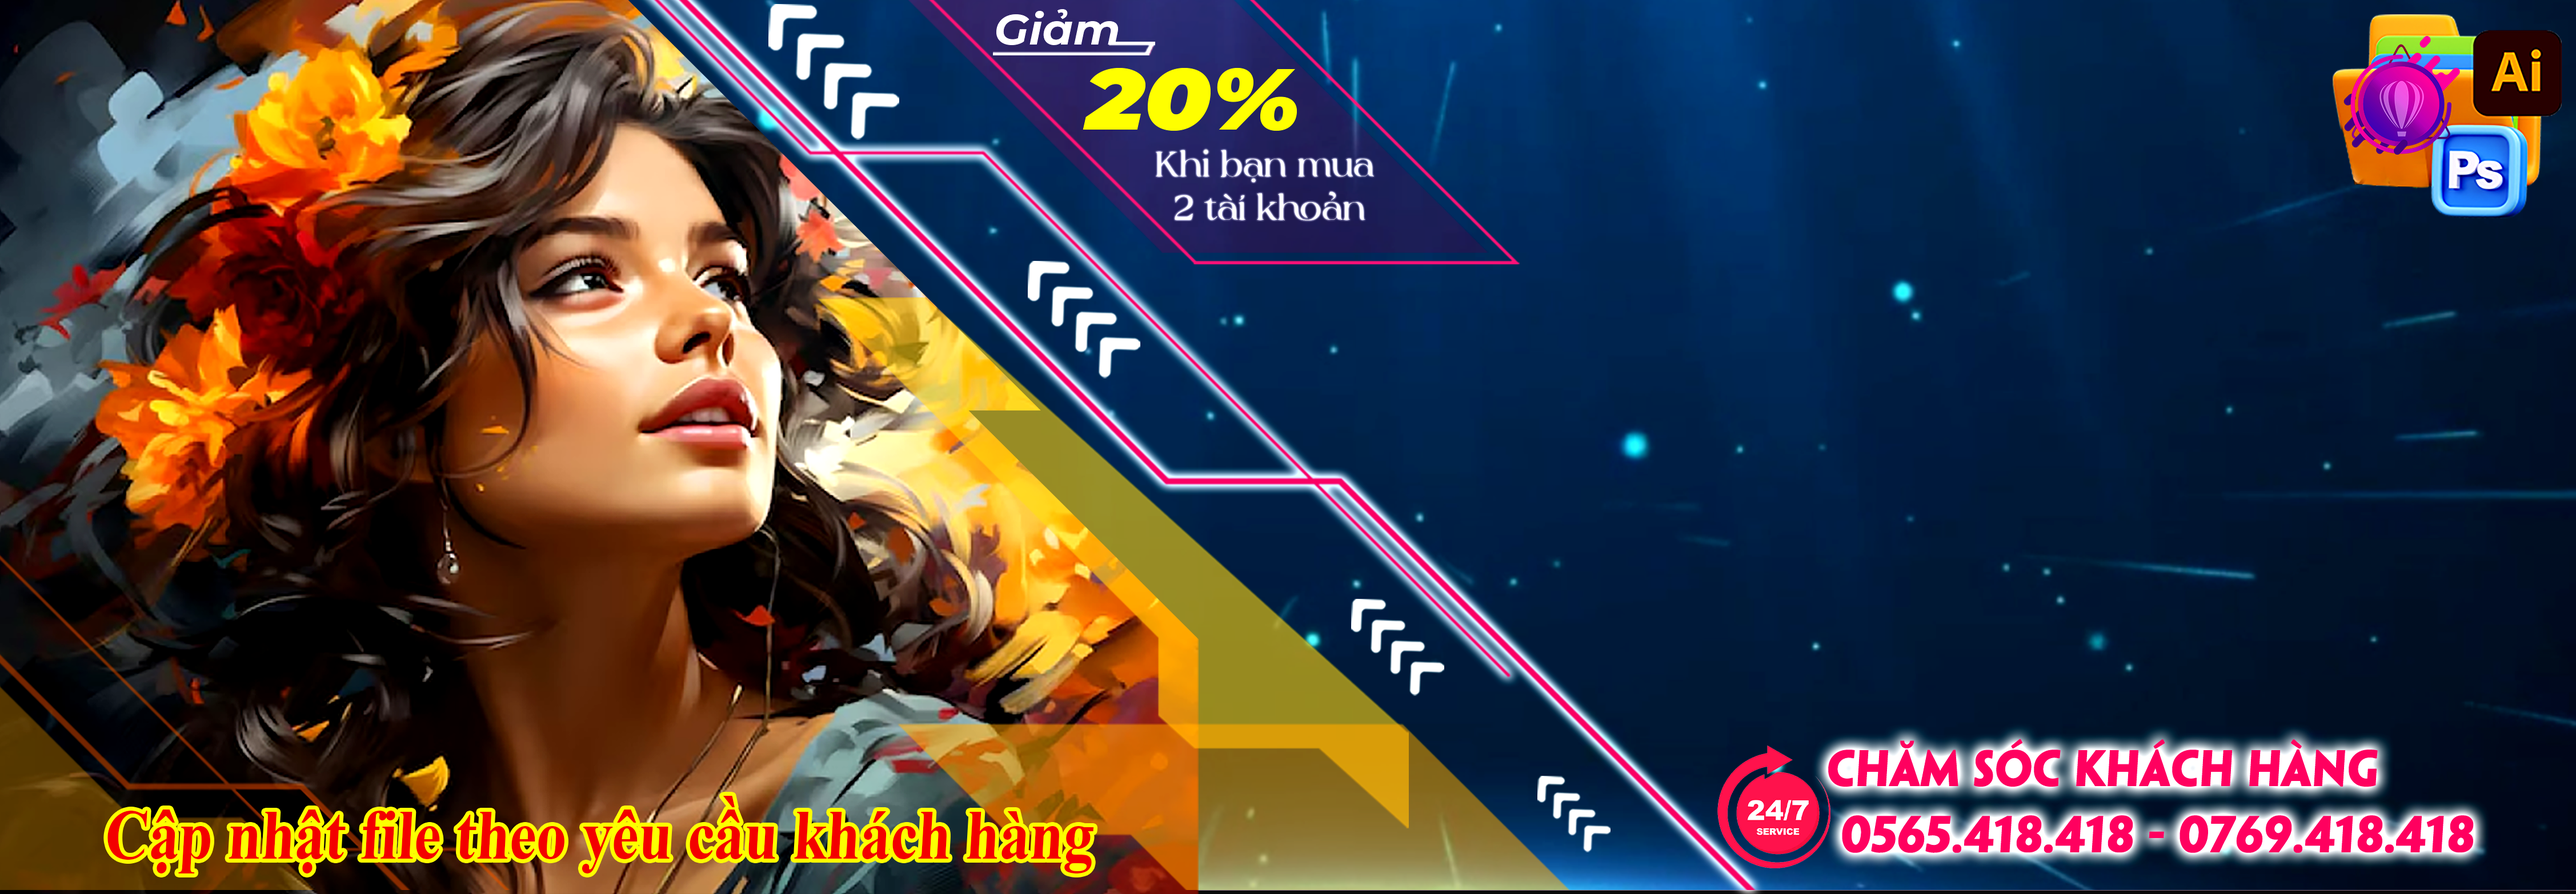
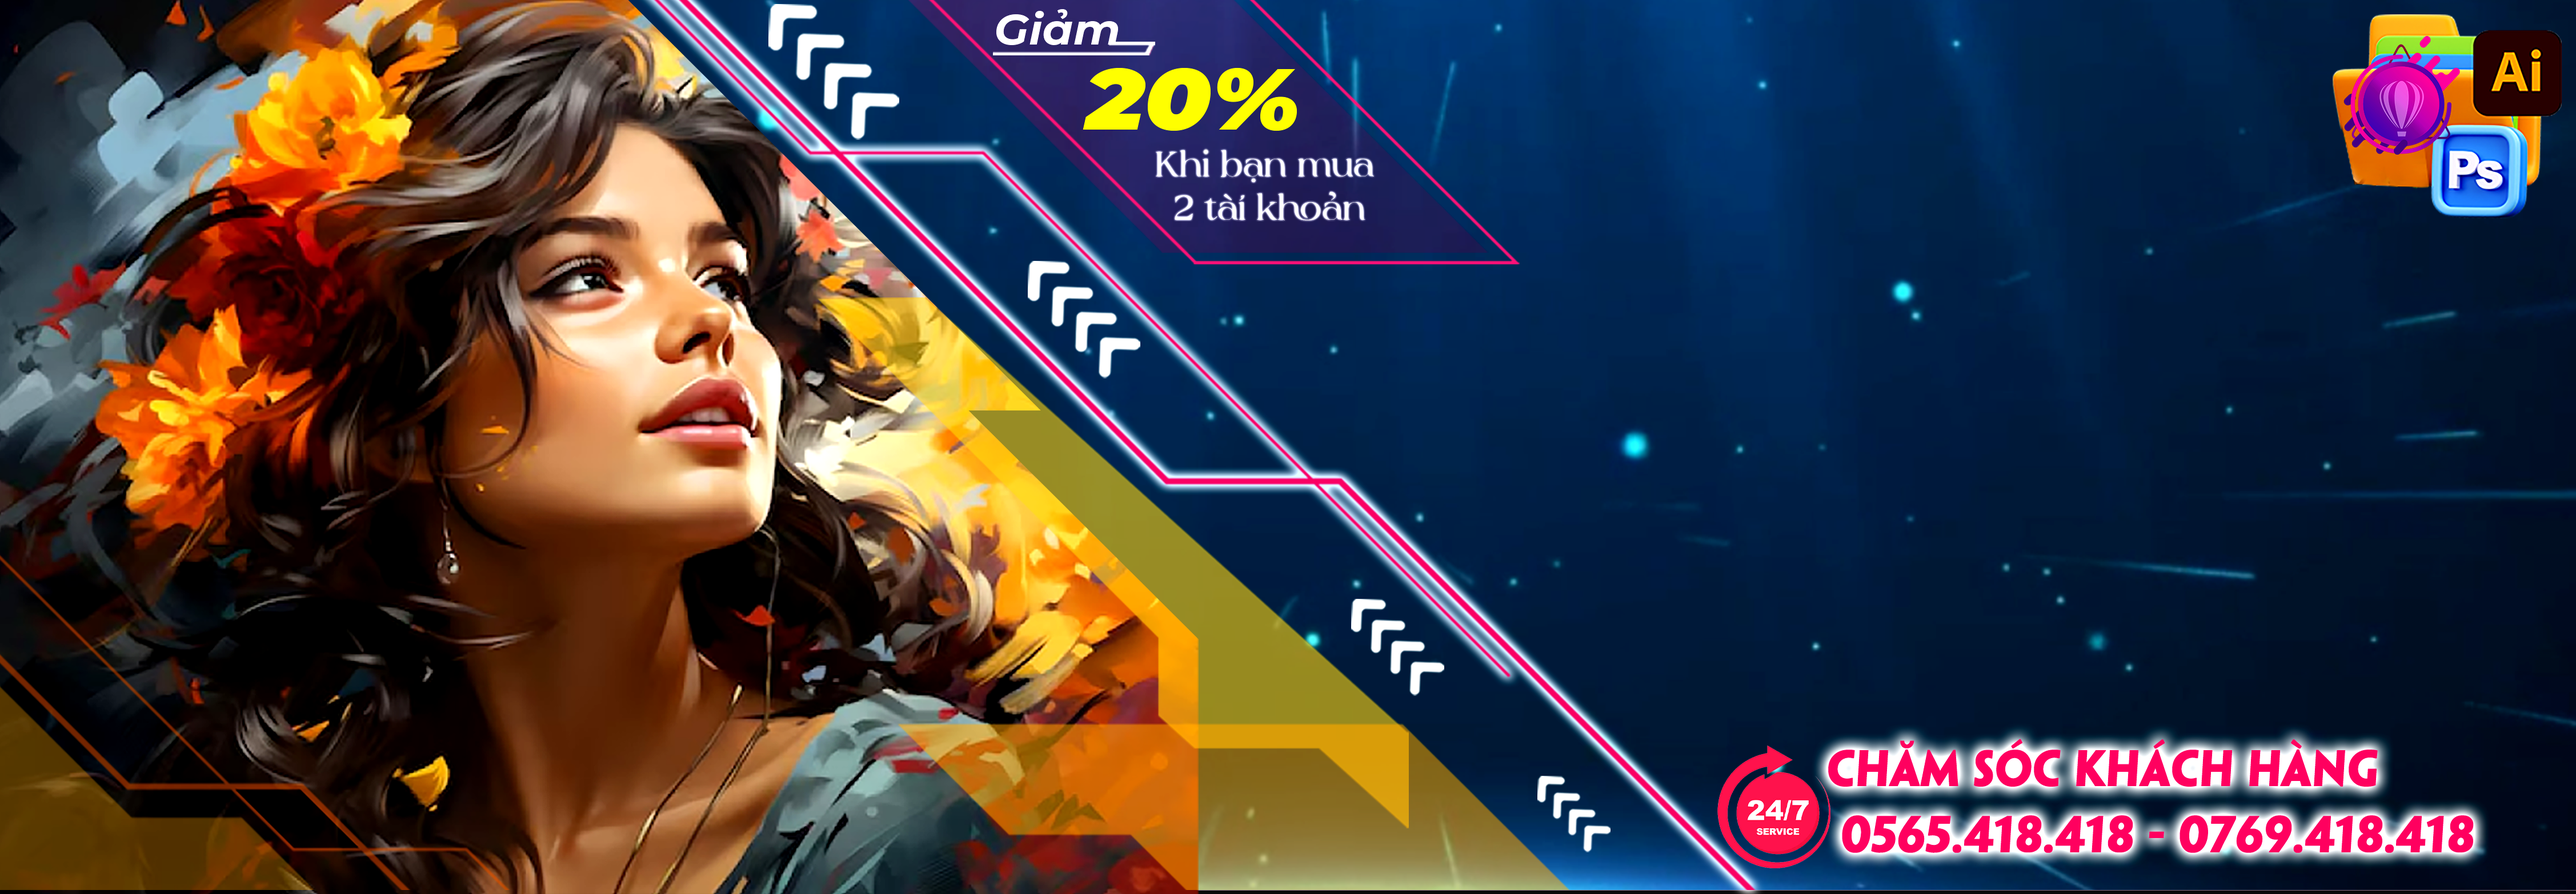
update page

Changed region(s): [[0.031, 0.8889, 0.4347, 0.9808]]

diff --git a/home-page.html b/home-page.html
@@ -59,7 +59,19 @@
 							<li><a href="#">Phông nền</a></li>
 							<li><a href="#">Noel</a></li>
 							<li><a href="#">Tết</a></li>
-							<li><a href="#">Các ngày lễ</a></li>
+							<li>
+								<a href="#">Các ngày lễ</a>
+								<img src="./images/ico-right.png" alt="">
+
+								<ul class="sub-menu-2">
+									<li><a href="#">Phông nền</a></li>
+									<li><a href="#">Tranh cổ động</a></li>
+									<li><a href="#">Lễ Tết</a></li>
+									<li><a href="#">Phông nền</a></li>
+									<li><a href="#">Tranh cổ động</a></li>
+									<li><a href="#">Lễ Tết</a></li>
+								</ul>
+							</li>
 							<li><a href="#">Cưới hỏi</a></li>
 							<li><a href="#">Tranh ảnh</a></li>
 							<li><a href="#">Tổng hợp</a></li>
@@ -70,8 +82,36 @@
 							<li><a href="#">Font vip</a></li>
 							<li><a href="#">Bida</a></li>
 							<li><a href="#">Băng rôn</a></li>
-							<li><a href="#">Thư viện Sketchup</a></li>
-							<li><a href="#">Trường học</a></li>
+							<li><a href="#">Thư viện Sketchup</a>
+								<img src="./images/ico-right.png" alt="">
+
+								<ul class="sub-menu-2">
+									<li><a href="#">Phông nền</a></li>
+									<li><a href="#">Tranh cổ động</a></li>
+									<li><a href="#">Lễ Tết</a></li>
+									<li><a href="#">Phông nền</a></li>
+									<li><a href="#">Tranh cổ động</a></li>
+									<li><a href="#">Lễ Tết</a></li>
+								</ul>
+							</li>
+							<li><a href="#">Trường học</a>
+								<img src="./images/ico-right.png" alt="">
+
+								<ul class="sub-menu-2">
+									<li><a href="#">Phông nền</a></li>
+									<li><a href="#">Tranh cổ động</a></li>
+									<li><a href="#">Lễ Tết</a></li>
+									<li><a href="#">Phông nền</a></li>
+									<li><a href="#">Tranh cổ động</a></li>
+									<li><a href="#">Lễ Tết</a></li>
+									<li><a href="#">Phông nền</a></li>
+									<li><a href="#">Tranh cổ động</a></li>
+									<li><a href="#">Lễ Tết</a></li>
+									<li><a href="#">Phông nền</a></li>
+									<li><a href="#">Tranh cổ động</a></li>
+									<li><a href="#">Lễ Tết</a></li>
+								</ul>
+							</li>
 						</ul>
 					</li>				
 					<li><a href="#" class="active">Mua tài khoản</a></li>
@@ -102,6 +142,7 @@
 				<img src="./images/img-banner-3.png" alt="" class="img-banner-3">
 				<img src="./images/img-banner-4.png" alt="" class="img-banner-4">
 				<img src="./images/img-banner-5.png" alt="" class="img-banner-5">
+				<img src="./images/img-banner-6.png" alt="" class="img-banner-6">
 			</a>
 			<!-- <video loop="true" autoplay="autoplay" muted>
 			  <source src="./images/video.mp4">

diff --git a/css/style.css b/css/style.css
@@ -138,6 +138,11 @@ body{
 .header .sub-menu li{
   display: block;
   position: relative;
+  padding: 1px 0px;
+}
+.header .sub-menu li:nth-child(n+15) .sub-menu-2{
+  bottom: 0%;
+  top: auto;
 }
 .header .sub-menu-2{
   position: absolute;
@@ -818,6 +823,13 @@ marquee{
   width: 38%;
   animation: img-banner-5 6s;
 }
+.banner a .img-banner-6{
+  position: absolute;
+  left: 4%;
+    bottom: 2%;
+    width: 39%;
+  animation: img-banner-6 6s;
+}
 @keyframes img-banner-1{
   0%{
     opacity: 0;
@@ -884,6 +896,20 @@ marquee{
     opacity: 0;
   }
   65%{
+    opacity: 1;
+  }
+  100%{
+    opacity: 1;
+  }
+}
+@keyframes img-banner-6{
+  0%{
+    opacity: 0;
+  }
+  65%{
+    opacity: 0;
+  }
+  75%{
     opacity: 1;
   }
   100%{

diff --git a/lien-he.html b/lien-he.html
@@ -89,6 +89,7 @@
 				<img src="./images/img-banner-3.png" alt="" class="img-banner-3">
 				<img src="./images/img-banner-4.png" alt="" class="img-banner-4">
 				<img src="./images/img-banner-5.png" alt="" class="img-banner-5">
+				<img src="./images/img-banner-6.png" alt="" class="img-banner-6">
 			</a>
 			<!-- <video loop="true" autoplay="autoplay" muted>
 			  <source src="./images/video.mp4">

diff --git a/tai-file.html b/tai-file.html
@@ -89,6 +89,7 @@
 				<img src="./images/img-banner-3.png" alt="" class="img-banner-3">
 				<img src="./images/img-banner-4.png" alt="" class="img-banner-4">
 				<img src="./images/img-banner-5.png" alt="" class="img-banner-5">
+				<img src="./images/img-banner-6.png" alt="" class="img-banner-6">
 			</a>
 			<!-- <video loop="true" autoplay="autoplay" muted>
 			  <source src="./images/video.mp4">
